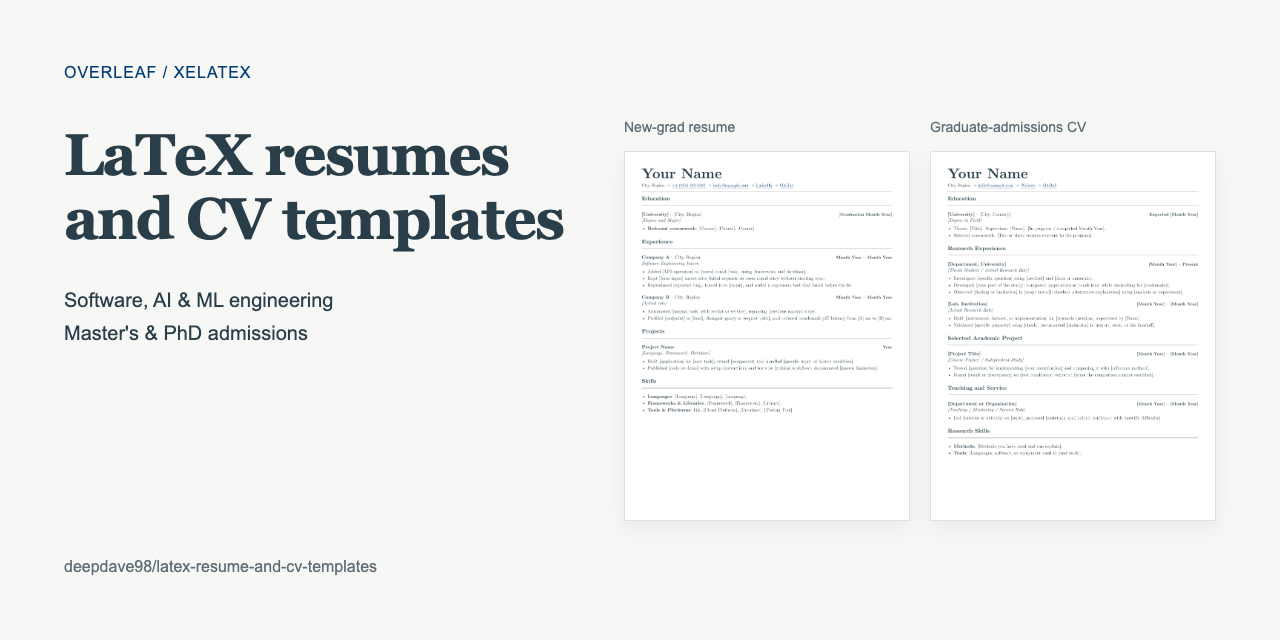
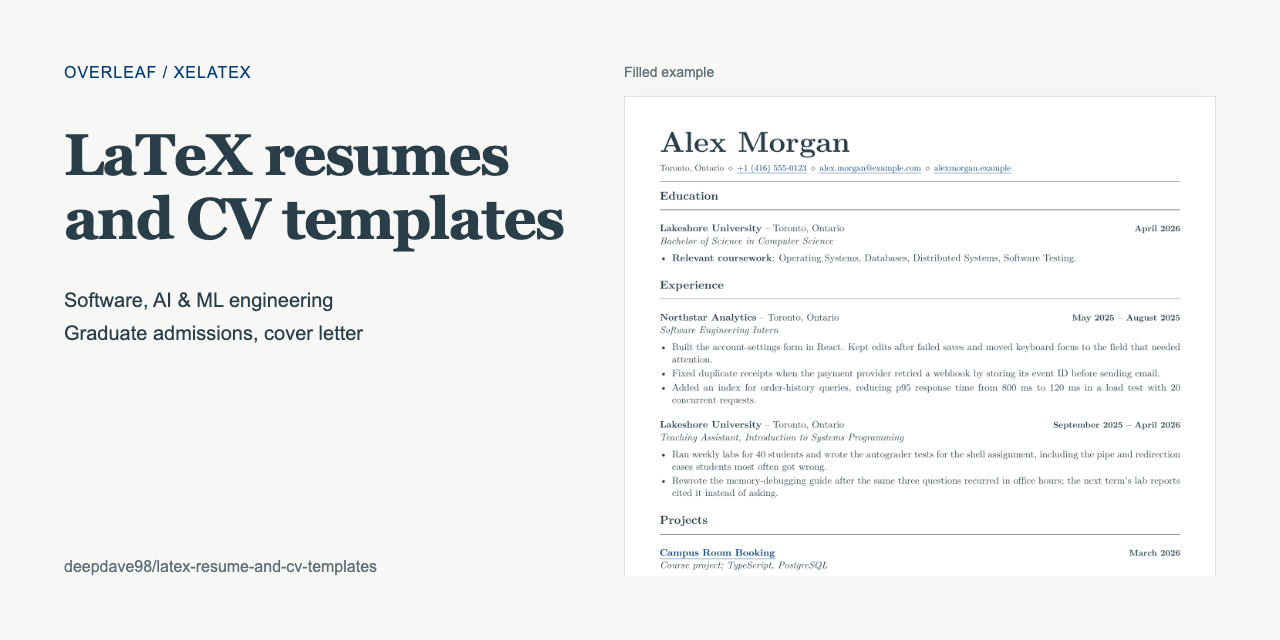
Say where each line goes and show the filled example on the card
docs/section-order.md: where clearance, authorization, relocation,
spoken languages, certificates, and career breaks go; the steps for
tailoring to one posting; the changing-fields entry in full. README:
template list that fits a phone, what the PDF contains, what CI checks.
Social preview shows the filled example. .gitattributes counts the
class and templates as the primary language.

diff --git a/assets/social-preview.html b/assets/social-preview.html
@@ -12,8 +12,8 @@
   h1 { margin: 0; font: bold 58px/1.1 Georgia, serif; letter-spacing: -1.4px; }
   .roles { margin: 32px 0 0; font-size: 20px; line-height: 1.65; }
   .repo { margin: auto 0 0; font-size: 16px; color: #606f77; }
-  .previews { display: grid; grid-template-columns: 1fr 1fr; align-content: center; gap: 20px; }
-  figure { margin: 0; min-width: 0; }
+  .previews { display: flex; align-items: flex-start; overflow: hidden; }
+  figure { margin: 0; min-width: 0; width: 100%; }
   figcaption { margin-bottom: 16px; font-size: 14px; color: #606f77; }
   img { display: block; width: 100%; border: 1px solid #dde1e2; box-shadow: 0 8px 18px #293e4910; }
 </style>
@@ -21,17 +21,13 @@
   <section class="intro">
     <p class="format">OVERLEAF / XELATEX</p>
     <h1>LaTeX resumes<br>and CV templates</h1>
-    <p class="roles">Software, AI &amp; ML engineering<br>Master's &amp; PhD admissions</p>
+    <p class="roles">Software, AI &amp; ML engineering<br>Graduate admissions, cover letter</p>
     <p class="repo">deepdave98/latex-resume-and-cv-templates</p>
   </section>
   <section class="previews" aria-label="Template previews">
     <figure>
-      <figcaption>New-grad resume</figcaption>
-      <img src="../preview/new-grad-resume.png" alt="One-page new-grad resume">
-    </figure>
-    <figure>
-      <figcaption>Graduate-admissions CV</figcaption>
-      <img src="../preview/graduate-admissions-resume.png" alt="One-page graduate-admissions CV">
+      <figcaption>Filled example</figcaption>
+      <img src="../preview/new-grad-example.png" alt="One-page filled example resume">
     </figure>
   </section>
 </main>

diff --git a/README.md b/README.md
@@ -4,18 +4,16 @@ One-page resumes for software, AI, and ML engineers, a graduate-admissions CV, a
 
 <img src="preview/new-grad-example.png" alt="Filled example of the new-grad resume: education, an internship, two projects, and skills on one page" width="560">
 
-The compile log reminds you about sample text you have not replaced, warns when the resume runs past its page budget, and links your email and phone automatically. [Example PDF](https://raw.githubusercontent.com/deepdave98/latex-resume-and-cv-templates/main/output/pdf/new-grad-example.pdf) · [Example source](examples/new-grad-example.tex).
+The PDF is one column of real text with embedded fonts, no icons, and no photo, so the text a parser extracts matches the page. The compile log reminds you about sample text you have not replaced, warns when the resume runs past its page budget, and links your email and phone automatically. [Example PDF](https://raw.githubusercontent.com/deepdave98/latex-resume-and-cv-templates/main/output/pdf/new-grad-example.pdf) · [Example source](examples/new-grad-example.tex).
 
 ## Pick a template
 
-| Template | Leads with | Edit | Download |
-| --- | --- | --- | --- |
-| No internship | Education, projects, other experience | [Open in Overleaf](https://www.overleaf.com/docs?snip_uri=https%3A%2F%2Fraw.githubusercontent.com%2Fdeepdave98%2Flatex-resume-and-cv-templates%2Fmain%2Fdownloads%2Fno-internship-resume.zip&engine=xelatex&main_document=resume.tex) | [ZIP](https://raw.githubusercontent.com/deepdave98/latex-resume-and-cv-templates/main/downloads/no-internship-resume.zip) · [PDF](https://raw.githubusercontent.com/deepdave98/latex-resume-and-cv-templates/main/output/pdf/no-internship-resume.pdf) |
-| New grad | Education, internship, projects | [Open in Overleaf](https://www.overleaf.com/docs?snip_uri=https%3A%2F%2Fraw.githubusercontent.com%2Fdeepdave98%2Flatex-resume-and-cv-templates%2Fmain%2Fdownloads%2Fnew-grad-resume.zip&engine=xelatex&main_document=resume.tex) | [ZIP](https://raw.githubusercontent.com/deepdave98/latex-resume-and-cv-templates/main/downloads/new-grad-resume.zip) · [PDF](https://raw.githubusercontent.com/deepdave98/latex-resume-and-cv-templates/main/output/pdf/new-grad-resume.pdf) |
-| Experienced | Work history, with a promotion pattern | [Open in Overleaf](https://www.overleaf.com/docs?snip_uri=https%3A%2F%2Fraw.githubusercontent.com%2Fdeepdave98%2Flatex-resume-and-cv-templates%2Fmain%2Fdownloads%2Fexperienced-resume.zip&engine=xelatex&main_document=resume.tex) | [ZIP](https://raw.githubusercontent.com/deepdave98/latex-resume-and-cv-templates/main/downloads/experienced-resume.zip) · [PDF](https://raw.githubusercontent.com/deepdave98/latex-resume-and-cv-templates/main/output/pdf/experienced-resume.pdf) |
-| AI engineer | Applied AI work, with evaluation details | [Open in Overleaf](https://www.overleaf.com/docs?snip_uri=https%3A%2F%2Fraw.githubusercontent.com%2Fdeepdave98%2Flatex-resume-and-cv-templates%2Fmain%2Fdownloads%2Fai-engineer-resume.zip&engine=xelatex&main_document=resume.tex) | [ZIP](https://raw.githubusercontent.com/deepdave98/latex-resume-and-cv-templates/main/downloads/ai-engineer-resume.zip) · [PDF](https://raw.githubusercontent.com/deepdave98/latex-resume-and-cv-templates/main/output/pdf/ai-engineer-resume.pdf) |
-| ML engineer | Training, data splits, and serving | [Open in Overleaf](https://www.overleaf.com/docs?snip_uri=https%3A%2F%2Fraw.githubusercontent.com%2Fdeepdave98%2Flatex-resume-and-cv-templates%2Fmain%2Fdownloads%2Fml-engineer-resume.zip&engine=xelatex&main_document=resume.tex) | [ZIP](https://raw.githubusercontent.com/deepdave98/latex-resume-and-cv-templates/main/downloads/ml-engineer-resume.zip) · [PDF](https://raw.githubusercontent.com/deepdave98/latex-resume-and-cv-templates/main/output/pdf/ml-engineer-resume.pdf) |
-| Graduate admissions | Education, research, teaching | [Open in Overleaf](https://www.overleaf.com/docs?snip_uri=https%3A%2F%2Fraw.githubusercontent.com%2Fdeepdave98%2Flatex-resume-and-cv-templates%2Fmain%2Fdownloads%2Fgraduate-admissions-resume.zip&engine=xelatex&main_document=resume.tex) | [ZIP](https://raw.githubusercontent.com/deepdave98/latex-resume-and-cv-templates/main/downloads/graduate-admissions-resume.zip) · [PDF](https://raw.githubusercontent.com/deepdave98/latex-resume-and-cv-templates/main/output/pdf/graduate-admissions-resume.pdf) |
+- **No internship** (education, projects, other experience): [Overleaf](https://www.overleaf.com/docs?snip_uri=https%3A%2F%2Fraw.githubusercontent.com%2Fdeepdave98%2Flatex-resume-and-cv-templates%2Fmain%2Fdownloads%2Fno-internship-resume.zip&engine=xelatex&main_document=resume.tex) · [ZIP](https://raw.githubusercontent.com/deepdave98/latex-resume-and-cv-templates/main/downloads/no-internship-resume.zip) · [PDF](https://raw.githubusercontent.com/deepdave98/latex-resume-and-cv-templates/main/output/pdf/no-internship-resume.pdf)
+- **New grad** (education, internship, projects): [Overleaf](https://www.overleaf.com/docs?snip_uri=https%3A%2F%2Fraw.githubusercontent.com%2Fdeepdave98%2Flatex-resume-and-cv-templates%2Fmain%2Fdownloads%2Fnew-grad-resume.zip&engine=xelatex&main_document=resume.tex) · [ZIP](https://raw.githubusercontent.com/deepdave98/latex-resume-and-cv-templates/main/downloads/new-grad-resume.zip) · [PDF](https://raw.githubusercontent.com/deepdave98/latex-resume-and-cv-templates/main/output/pdf/new-grad-resume.pdf)
+- **Experienced** (work history, with a promotion pattern): [Overleaf](https://www.overleaf.com/docs?snip_uri=https%3A%2F%2Fraw.githubusercontent.com%2Fdeepdave98%2Flatex-resume-and-cv-templates%2Fmain%2Fdownloads%2Fexperienced-resume.zip&engine=xelatex&main_document=resume.tex) · [ZIP](https://raw.githubusercontent.com/deepdave98/latex-resume-and-cv-templates/main/downloads/experienced-resume.zip) · [PDF](https://raw.githubusercontent.com/deepdave98/latex-resume-and-cv-templates/main/output/pdf/experienced-resume.pdf)
+- **AI engineer** (applied AI work, with evaluation details): [Overleaf](https://www.overleaf.com/docs?snip_uri=https%3A%2F%2Fraw.githubusercontent.com%2Fdeepdave98%2Flatex-resume-and-cv-templates%2Fmain%2Fdownloads%2Fai-engineer-resume.zip&engine=xelatex&main_document=resume.tex) · [ZIP](https://raw.githubusercontent.com/deepdave98/latex-resume-and-cv-templates/main/downloads/ai-engineer-resume.zip) · [PDF](https://raw.githubusercontent.com/deepdave98/latex-resume-and-cv-templates/main/output/pdf/ai-engineer-resume.pdf)
+- **ML engineer** (training, data splits, and serving): [Overleaf](https://www.overleaf.com/docs?snip_uri=https%3A%2F%2Fraw.githubusercontent.com%2Fdeepdave98%2Flatex-resume-and-cv-templates%2Fmain%2Fdownloads%2Fml-engineer-resume.zip&engine=xelatex&main_document=resume.tex) · [ZIP](https://raw.githubusercontent.com/deepdave98/latex-resume-and-cv-templates/main/downloads/ml-engineer-resume.zip) · [PDF](https://raw.githubusercontent.com/deepdave98/latex-resume-and-cv-templates/main/output/pdf/ml-engineer-resume.pdf)
+- **Graduate admissions** (education, research, teaching): [Overleaf](https://www.overleaf.com/docs?snip_uri=https%3A%2F%2Fraw.githubusercontent.com%2Fdeepdave98%2Flatex-resume-and-cv-templates%2Fmain%2Fdownloads%2Fgraduate-admissions-resume.zip&engine=xelatex&main_document=resume.tex) · [ZIP](https://raw.githubusercontent.com/deepdave98/latex-resume-and-cv-templates/main/downloads/graduate-admissions-resume.zip) · [PDF](https://raw.githubusercontent.com/deepdave98/latex-resume-and-cv-templates/main/output/pdf/graduate-admissions-resume.pdf)
 
 Every ZIP also contains `cover-letter.tex` with the same header. [Open the cover letter in Overleaf](https://www.overleaf.com/docs?snip_uri=https%3A%2F%2Fraw.githubusercontent.com%2Fdeepdave98%2Flatex-resume-and-cv-templates%2Fmain%2Fdownloads%2Fnew-grad-resume.zip&engine=xelatex&main_document=cover-letter.tex) · [PDF](https://raw.githubusercontent.com/deepdave98/latex-resume-and-cv-templates/main/output/pdf/cover-letter.pdf).
 
@@ -39,7 +37,7 @@ The [editing reference](docs/editing.md) covers contacts, promotions, the cover 
 latexmk resume.tex
 ```
 
-In a clone, `make` builds every document to `build/`, `make doctor` checks dependencies, and `make test` runs the same checks as CI.
+In a clone, `make` builds every document to `build/` and `make doctor` checks dependencies. [![Build](https://github.com/deepdave98/latex-resume-and-cv-templates/actions/workflows/build.yml/badge.svg)](https://github.com/deepdave98/latex-resume-and-cv-templates/actions/workflows/build.yml) Every change compiles all six starters, the cover letter, and the example on a pinned TeX Live image, checks that each stays on one page and that contact links point where the text says, compares each starter's extracted text with a reviewed baseline, and checks the ZIPs against their sources. `make test` runs the same checks.
 
 ## Optional tools
 

diff --git a/docs/section-order.md b/docs/section-order.md
@@ -5,7 +5,7 @@ Lead with education as a student or new grad; lead with relevant work once you h
 - **No internship yet:** education, projects, other experience, skills. Use the [project-first starter](../templates/no-internship-resume.tex). Keep course projects labeled as projects and separate your contribution from the team's. Other experience can be paid work, tutoring, volunteering, or a club responsibility; delete that section if it does not apply.
 - **New grad with relevant work:** education, relevant experience, projects, skills. Put projects above unrelated jobs when they show more of your engineering ability.
 - **Engineer with relevant work:** experience, skills, education. Give recent work the most space. Keep projects only when they add evidence your jobs do not cover.
-- **Changing fields:** lead with the experience or projects that match the target role. Keep entries within each section in reverse chronological order.
+- **Changing fields:** start from the no-internship starter and put Projects first. Rename Other Experience to Experience and keep one prior role with its real title; its bullets cover scope, systems, and people. List a bootcamp or certificate as an Education entry above the degree. Keep entries within each section in reverse chronological order.
 
 Keep certifications only when relevant. The new-grad and experienced starters include a commented-out block you can enable. Move a required credential near the top; otherwise put it below experience and projects.
 
@@ -14,5 +14,21 @@ For AI and ML roles, prioritize the work requested in the job description. Resea
 Use a second page when relevant experience needs it, not because of your title. [MIT's length guidance](https://capd.mit.edu/resources/resumes/).
 
 For PhD and research master's applications, education and research usually lead. Keep publications near that evidence if you have them; omit the section if you do not. The program's CV and page-limit instructions take precedence. [Admissions starter and guide](graduate-admissions.md).
+
+## Where a line goes
+
+- Security clearance, work authorization, and willingness to relocate go in the contact line after the city, each with its own `\contactsep`. The line wraps after a separator.
+- Spoken languages are a Skills bullet labeled **Spoken languages** with a level word: native, fluent, or working. Keep the existing **Languages** bullet for code.
+- A certification, award, talk, or license is a `\resumerow`. A bootcamp or certificate program is an Education entry above the degree.
+- A career break is `\jobentry{}{Career break}{}{Year -- Year}` with no bullets, or nothing. Years alone are fine when every entry uses them.
+
+## For one posting
+
+1. Pick the two or three responsibilities the posting repeats.
+2. Make the first two bullets of your first experience or project entry show them.
+3. Move the matching project or job up; cut the least related bullet.
+4. Reorder skills lines to lead with what they ask. Add nothing you cannot discuss.
+5. Save the source as `acme-backend.tex` beside `resume.tex` (on Overleaf, **Make a copy** with that name) and rebuild. The rebuild takes seconds; deciding is the work.
+6. Export as `Firstname-Lastname-Resume.pdf`, then keep the sent copy as described in [Before you send](before-you-send.md#keep-the-pdf-you-sent).
 
 To reorder these templates, move each complete `\section{...}` block with its entries. All starters begin at one page. If relevant content needs a second, set `\resumepagelimit{2}` and let LaTeX paginate naturally; a heading moves to the next page with its first entry, and the footer prints your name and page number from page 2. Rebuild and inspect the PDF after changing the order or length.

diff --git a/docs/graduate-admissions.md b/docs/graduate-admissions.md
@@ -38,7 +38,7 @@ Use this only if it describes your work.
 The source includes commented-out blocks. Uncomment only what applies.
 
 - Separate published/accepted work from preprints and submissions. A draft sent to your supervisor is not a journal submission. “Under review” is not “accepted.”
-- Preserve author order. Give the title, year, venue where applicable, and current status. Follow the program's citation instructions; link only work you can share.
+- Preserve author order. Give the title, year, venue where applicable, and current status. Follow the program's citation instructions; link only work you can share. Bold your own name, italicize the venue, and link the DOI with `\resumelink`; the starter's commented item shows the form.
 - Label a poster or talk with its event and date. Attending an event is not presenting at it. Do not count a poster as a peer-reviewed paper.
 
 MIT Physics asks applicants to distinguish publication status and presentation type. Its instructions concern its own application fields, not every program's CV. [Details](https://physics.mit.edu/academic-programs/graduate-students/graduate-admissions-additional-guidance/).
